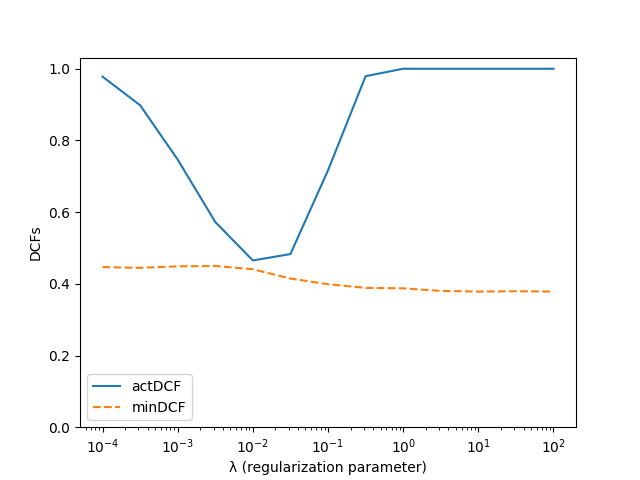
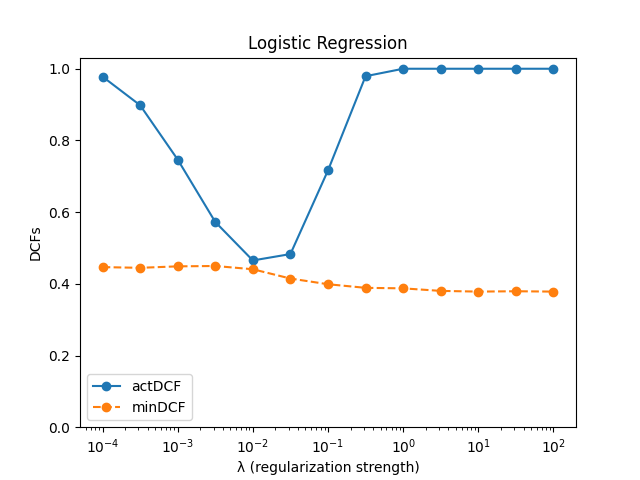
minor changes

diff --git a/6_project.py b/6_project.py
@@ -6,16 +6,17 @@ import matplotlib.pyplot as plt
 
 pi_true = 0.1
 
-def plot_logreg_dcfs(reg_values: list[float], dcfs: list[list, list], title: str):
+def plot_logreg_dcfs(reg_values: list[float], dcfs: list[list, list], title: str, savepath: str):
     plt.figure()
     plt.xscale('log', base=10)
-    plt.plot(reg_values, dcfs[0], label='actDCF')
-    plt.plot(reg_values, dcfs[1], linestyle='--', label='minDCF')
-    plt.xlabel('λ (regularization parameter)')
+    plt.plot(reg_values, dcfs[0], label='actDCF', marker='o')
+    plt.plot(reg_values, dcfs[1], linestyle='--', label='minDCF', marker='o')
+    plt.xlabel('λ (regularization strength)')
     plt.ylabel('DCFs')
     plt.ylim(bottom=0)
     plt.legend()
-    plt.savefig(f'./plots/{title}')
+    plt.title(title)
+    plt.savefig(savepath)
     plt.close()
 
 
@@ -43,7 +44,7 @@ def main():
             dcfs[0].append(actDCF_score)
             minDCF_score = DCF_min(llr_scores, val_labels, pi_true)
             dcfs[1].append(minDCF_score)
-        plot_logreg_dcfs(reg_values, dcfs, f'logreg_λ_DCFs_{to_snake_case(title)}')
+        plot_logreg_dcfs(reg_values, dcfs, 'Logistic Regression', f'plots/logreg_λ_DCFs_{to_snake_case(title)}')
     # analyse the DCF of the Prior-Weighted Logistic Regression as regularization changes
     (train_data, train_labels), (val_data, val_labels) = split_2to1(data, labels)
     dcfs = [[], []]
@@ -60,7 +61,7 @@ def main():
         dcfs[0].append(actDCF_score)
         minDCF_score = DCF_min(llr_scores, val_labels, pi_true)
         dcfs[1].append(minDCF_score)
-    plot_logreg_dcfs(reg_values, dcfs, f'prior_weighted_logreg_λ_DCFs_{to_snake_case('Full dataset')}')
+    plot_logreg_dcfs(reg_values, dcfs, f'Logistic Regression (π={pi_true})', f'plots/prior_weighted_logreg_λ_DCFs_{to_snake_case('Full dataset')}')
     # analyse the DCF of the Quadratic Logistic Regression as regularization changes
     train_data_quad, val_data_quad = quadratic_expansion(train_data), quadratic_expansion(val_data)
     dcfs = [[], []]
@@ -77,7 +78,7 @@ def main():
         dcfs[0].append(actDCF_score)
         minDCF_score = DCF_min(llr_scores, val_labels, pi_true)
         dcfs[1].append(minDCF_score)
-    plot_logreg_dcfs(reg_values, dcfs, f'quad_logreg_λ_DCFs_{to_snake_case('Full dataset')}')
+    plot_logreg_dcfs(reg_values, dcfs, 'Logistic Regression', f'plots/quad_logreg_λ_DCFs_{to_snake_case('Full dataset')}')
     # analyse the DCF of the Logistic Regression as regularization changes
     # with pre-processing techniques applied
     for title, preprocess in [
@@ -100,7 +101,7 @@ def main():
             dcfs[0].append(actDCF_score)
             minDCF_score = DCF_min(llr_scores, val_labels, pi_true)
             dcfs[1].append(minDCF_score)
-        plot_logreg_dcfs(reg_values, dcfs, f'logreg_λ_DCFs_{to_snake_case(title)}')
+        plot_logreg_dcfs(reg_values, dcfs, 'Logistic Regression', f'plots/logreg_λ_DCFs_{to_snake_case(title)}')
 
 
 if __name__ == '__main__':

diff --git a/5_project.py b/5_project.py
@@ -71,7 +71,7 @@ def main():
         prior_logodds=effprior_logodds,
         model_dcf_map=model_dcf_map,
         savepath='plots/gaussian_models_DCF_comparison',
-        title='MVG variants error',
+        title='MVG Variants',
         separate_plots=False
     ) 
 
